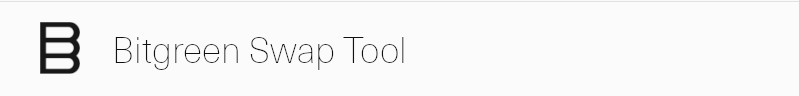
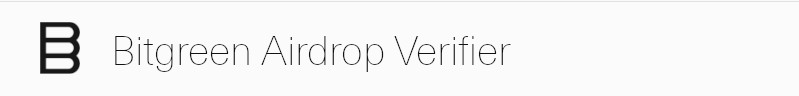
design adjustments

Changed region(s): [[0.1202, 0.375, 0.6308, 0.75], [0.5707, 0.375, 0.6008, 0.4062], [0.4205, 0.375, 0.4506, 0.4062]]

diff --git a/main.py b/main.py
@@ -231,7 +231,7 @@ class StartPage(tk.Frame):
                                     activeforeground='#FFFFFF', bg='#00A519', borderless=True)
             self.start_btn.place(x=85, y=275)
 
-        self.startpage_pg01 = tk.Label(self, text="""This tool is designed to make it easy for you to identify all addresses that exist in your current BitGreen wallet, and to prove your ownership of those addresses to submit to the swap process.
+        self.startpage_pg01 = tk.Label(self, text="""This tool is designed to make it easy for you to identify all addresses that exist in your current Bitgreen wallet, and to prove your ownership of those addresses to submit to the airdrop process.
 
 Subsequently you will receive the equivalent funds to your preferred Substrate address on the new blockchain.""",
                                        font=controller.text_style, justify=tk.LEFT,
@@ -239,7 +239,7 @@ Subsequently you will receive the equivalent funds to your preferred Substrate a
         self.startpage_pg01.place(x=285, y=15, )
 
         self.startpage_pg02 = tk.Label(self,
-                                       text="""Note the snapshot date for address balances is block XXX (or around 4th May 2021).To receive funds from the swap on the new chain, you must have had a balance at this snapshot date.""",
+                                       text="""Note the snapshot date for address balances is block 483250 (or around 26th October 2021).To receive funds from the airdrop on the new chain, you must have had a balance at this snapshot date.""",
                                        font=controller.text_style_bold, justify=tk.LEFT,
                                        wraplength=480, bg='#FFFFFF', fg='#E80000')
         self.startpage_pg02.place(x=285, y=165, )
@@ -274,7 +274,7 @@ def menu_items(self, controller, active_step):
     tick_logo = ImageTk.PhotoImage(tick_img)
 
     wallet_data_lbl = tk.Label(self, text="Wallet data", bg='#FFFFFF', font=controller.text_style)
-    wallet_data_lbl.place(x=90, y=45)
+    wallet_data_lbl.place(x=90, y=50)
     if active_step == 1:
         dot = tk.Label(self, image=active_dot_logo, borderwidth=0, highlightthickness=0)
         dot.image = active_dot_logo
@@ -287,7 +287,7 @@ def menu_items(self, controller, active_step):
     dot.place(x=40, y=45)
 
     seed_phrase_lbl = tk.Label(self, text="Seed Phrase", bg='#FFFFFF', font=controller.text_style)
-    seed_phrase_lbl.place(x=90, y=110)
+    seed_phrase_lbl.place(x=90, y=115)
     if active_step == 2:
         dot = tk.Label(self, image=active_dot_logo, borderwidth=0, highlightthickness=0)
         dot.image = active_dot_logo
@@ -300,7 +300,7 @@ def menu_items(self, controller, active_step):
     dot.place(x=40, y=110)
 
     verify_ownership_lbl = tk.Label(self, text="Verify ownership", bg='#FFFFFF', font=controller.text_style)
-    verify_ownership_lbl.place(x=90, y=175)
+    verify_ownership_lbl.place(x=90, y=180)
     if active_step == 3:
         dot = tk.Label(self, image=active_dot_logo, borderwidth=0, highlightthickness=0)
         dot.image = active_dot_logo
@@ -312,8 +312,8 @@ def menu_items(self, controller, active_step):
         dot.image = dot_logo
     dot.place(x=40, y=175)
 
-    submit_to_swap_lbl = tk.Label(self, text="Submit to swap", bg='#FFFFFF', font=controller.text_style)
-    submit_to_swap_lbl.place(x=90, y=240)
+    submit_to_swap_lbl = tk.Label(self, text="Submit", bg='#FFFFFF', font=controller.text_style)
+    submit_to_swap_lbl.place(x=90, y=245)
     if active_step == 4:
         dot = tk.Label(self, image=active_dot_logo, borderwidth=0, highlightthickness=0)
         dot.image = active_dot_logo
@@ -326,7 +326,7 @@ def menu_items(self, controller, active_step):
     dot.place(x=40, y=240)
 
     finished_lbl = tk.Label(self, text="Finished", bg='#FFFFFF', font=controller.text_style)
-    finished_lbl.place(x=90, y=305)
+    finished_lbl.place(x=90, y=310)
     if active_step == 5:
         dot = tk.Label(self, image=active_dot_logo, borderwidth=0, highlightthickness=0)
         dot.image = active_dot_logo
@@ -366,15 +366,15 @@ class WalletData(tk.Frame):
         ###########################
 
         ## BitGreen - Wallet Data ############
-        self.step_title = tk.Label(self, text="BitGreen wallet data", fg='#00A519', bg='#FFFFFF',
+        self.step_title = tk.Label(self, text="Bitgreen wallet data", fg='#00A519', bg='#FFFFFF',
                                    font=controller.title_font)
         self.step = tk.Label(self, text="STEP 1", fg='#00A519', bg='#FFFFFF', font=controller.title_font_step)
-        self.step.place(x=270, y=75)
+        self.step.place(x=270, y=80)
         self.step_title.place(x=270, y=40)
         ######################################
 
         self.walletdata_pg01 = tk.Label(self,
-                                        text="""Select the directory where your BitGreen wallet data is located. If you have encrypted your wallet, enter the password to unlock it on the next step. If you only had a mobile wallet, skip this step.""",
+                                        text="""Select the directory where your Bitgreen wallet data is located. If you have encrypted your wallet, enter the password to unlock it on the next step. If you only had a mobile wallet, skip this step.""",
                                         font=controller.text_style, justify=tk.LEFT,
                                         wraplength=500, bg='#FFFFFF')
         self.walletdata_pg01.place(x=270, y=110)
@@ -498,7 +498,7 @@ class SeedPhrase(tk.Frame):
         self.step_title = tk.Label(self, text="Seed Phrase", fg='#00A519', bg='#FFFFFF',
                                    font=controller.title_font)
         self.step = tk.Label(self, text="STEP 2", fg='#00A519', bg='#FFFFFF', font=controller.title_font_step)
-        self.step.place(x=270, y=75)
+        self.step.place(x=270, y=80)
         self.step_title.place(x=270, y=40)
         ######################################
 
@@ -592,13 +592,13 @@ class VerifyOwnership(tk.Frame):
         self.step_title = tk.Label(self, text="Verify Ownership", fg='#00A519', bg='#FFFFFF',
                                    font=controller.title_font)
         self.step = tk.Label(self, text="STEP 3", fg='#00A519', bg='#FFFFFF', font=controller.title_font_step)
-        self.step.place(x=270, y=75)
+        self.step.place(x=270, y=80)
         self.step_title.place(x=270, y=40)
         ######################################
 
         self.verify_pg01 = tk.Label(self, text="""This step involves specifying the substrate address you created on the new blockchain. Each address associated in your wallet will be signed with the substrate address on the next step.
         
-This both proves that your substrate address 'owns' the BITG addresses on the old blockchain, and in the submission to the swap will authorise the equivilent funds to be sent to your Substrate address on the new blockchain.""",
+This both proves that your substrate address 'owns' the BITG addresses on the old blockchain, and in the submission to the airdrop will authorise the equivilent funds to be sent to your Substrate address on the new blockchain.""",
                                     font=controller.text_style, justify=tk.LEFT,
                                     wraplength=500, bg='#FFFFFF')
         self.verify_pg01.place(x=270, y=110)
@@ -668,9 +668,9 @@ class SubmitSwap(tk.Frame):
         ###########################
 
         ## BitGreen - Verify Ownership ############
-        self.step_title = tk.Label(self, text="Submit to swap", fg='#00A519', bg='#FFFFFF', font=controller.title_font)
+        self.step_title = tk.Label(self, text="Submit for airdrop", fg='#00A519', bg='#FFFFFF', font=controller.title_font)
         self.step = tk.Label(self, text="STEP 4", fg='#00A519', bg='#FFFFFF', font=controller.title_font_step)
-        self.step.place(x=270, y=75)
+        self.step.place(x=270, y=80)
         self.step_title.place(x=270, y=40)
         ######################################
 
@@ -782,7 +782,7 @@ class Finished(tk.Frame):
         self.whatnext.place(x=270, y=180)
 
         self.finish_pg02 = tk.Label(self,
-                                    text=f"""Follow BitGreen announcements to get updates on how to credit funds to your substrate address on the new blockchain using the file generated by the swap tool.""",
+                                    text=f"""Follow Bitgreen announcements to get updates on how to credit funds to your substrate address on the new blockchain using the file generated by the airdrop tool.""",
                                     font=controller.text_style, justify=tk.LEFT,
                                     wraplength=500, bg='#FFFFFF')
         self.finish_pg02.place(x=270, y=230)
@@ -812,7 +812,7 @@ if __name__ == '__main__':
     wallet = Wallet()
     window = SwapApplication()
     window.protocol('WM_DELETE_WINDOW', on_closing)
-    window.title('BitGreen Swap Tool')
+    window.title('Bitgreen Airdrop Verifier')
     window.geometry("800x500+10+10")
     window.resizable(False, False)
     window.mainloop()

diff --git a/README.md b/README.md
@@ -11,7 +11,7 @@ e92bf3f7334a17cb37b7c0e07a30c573ee7d1e7e
 CertUtil: -hashfile command completed successfully.
 ```
 
-**Mac OS:** `shasum -a 1 bitgreen-swap-tool`
+**Mac OS:** `shasum -a 1 bitgreen-airdrop-verifier`
 ```
 d6845367e8179ee67af95ac6f8872af1dc35ccb3  bitgreen-swap-tool-MacOSX.zip
 ```
@@ -42,12 +42,10 @@ When testing locally, move contents inside /img into the root folder of main.py 
 
 ### PyInstaller - building standalone application (Windows, Linux, Mac OS)
 Windows:  
-```pyinstaller --onefile main.py --add-data "img\*.jpg;." --add-data "img\*.ico;." --add-data ".env;." --noconsole --icon=img\favicon.ico --add-data="coincurve\*.dll;coincurve/"  -n bitgreen-swap-tool --clean```  
-
-```Set-AuthenticodeSignature -FilePath bitgreen-swap-tool.exe -Certificate (Get-ChildItem Cert:\LocalMachine\My)[1] -Verbose```
+```pyinstaller --onefile main.py --add-data "img\*.jpg;." --add-data "img\*.ico;." --add-data ".env;." --noconsole --icon=img\favicon.ico --add-data="coincurve\*.dll;coincurve/"  -n bitgreen-airdrop-verifier --clean```  
 
 Ubuntu:  
-```pyinstaller --onefile main.py --add-data "img/*.jpg:." --add-data ".env:." --noconsole -n bitgreen-swap-tool --clean --hidden-import='PIL._tkinter_finder'```
+```pyinstaller --onefile main.py --add-data "img/*.jpg:." --add-data ".env:." --noconsole -n bitgreen-airdrop-verifier --clean --hidden-import='PIL._tkinter_finder'```
 
 Mac OS:  
-```python3 -m PyInstaller --onefile main.py --add-data "img/*.jpg:." --add-data "img/*.ico:." --add-data ".env:." --noconsole --icon=img/favicon.ico -n bitgreen-swap-tool --clean```
+```python3 -m PyInstaller --onefile main.py --add-data "img/*.jpg:." --add-data "img/*.ico:." --add-data ".env:." --noconsole --icon=img/favicon.ico -n bitgreen-airdrop-verifier --clean```
